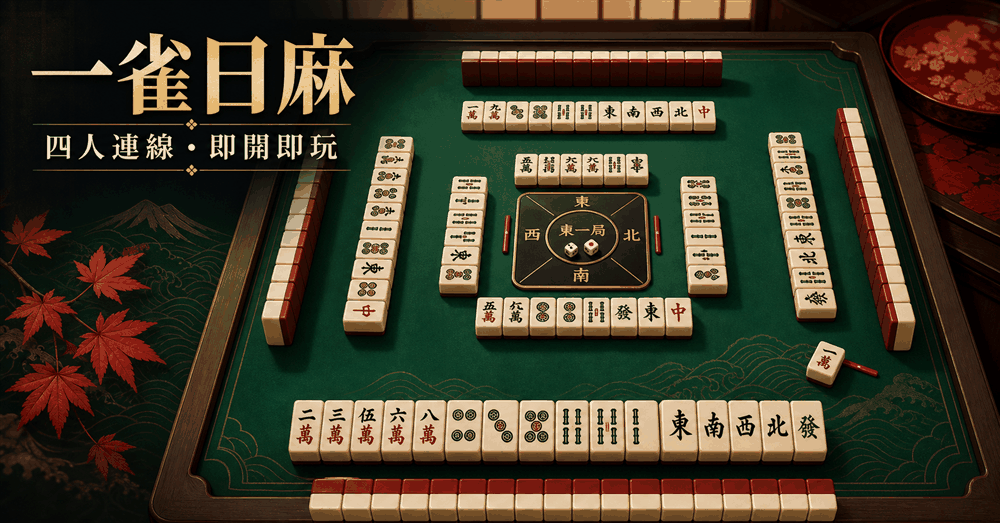
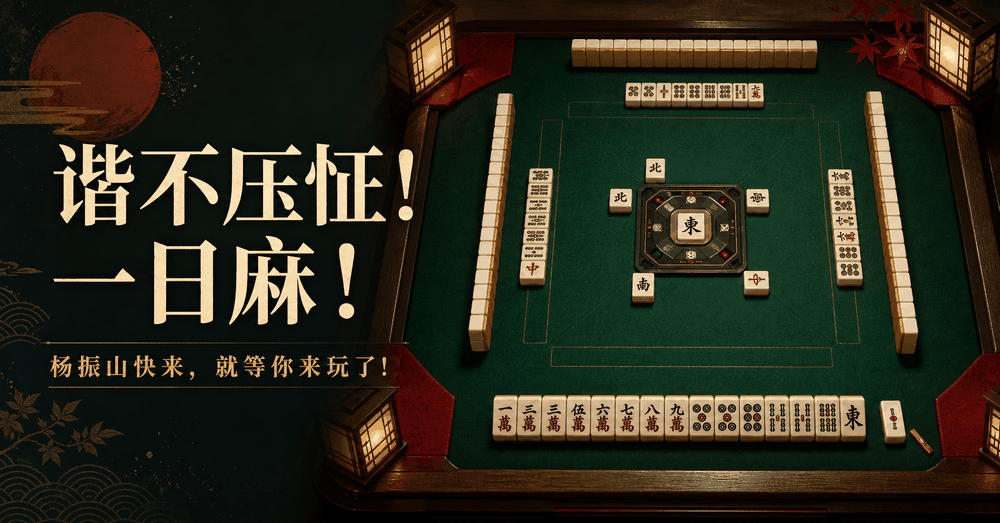
Refresh branding and add table rematch

diff --git a/app/page.tsx b/app/page.tsx
@@ -234,7 +234,7 @@ export default function Home() {
   async function shareRoom() {
     const url = `${window.location.origin}${window.location.pathname}?room=${roomCode}`;
     try {
-      if (navigator.share) await navigator.share({ title: "一雀日麻・四人房", text: `房号 ${roomCode}，点击加入四人日麻`, url });
+      if (navigator.share) await navigator.share({ title: "谐不压怔！一日麻！", text: `杨振山快来，就等你来玩了！房号 ${roomCode}`, url });
       else await navigator.clipboard.writeText(url);
       setCopied(true);
       window.setTimeout(() => setCopied(false), 1800);
@@ -263,8 +263,9 @@ export default function Home() {
         <section className="hero">
           <div className="hero-copy">
             <span className="eyebrow">四人线上日麻</span>
-            <h1>朋友到齐，<br /><em>马上开桌。</em></h1>
-            <p>建立一间私人房，分享链接。四个人用昵称入座，不注册、不安装，直接打东风战。</p>
+            <h1>谐不压怔！<br /><em>一日麻！</em></h1>
+            <p className="invite-subtitle">杨振山快来，就等你来玩了！</p>
+            <p className="hero-description">建立一间私人房，分享链接。四个人用昵称入座，不注册、不安装，直接打东风战。</p>
             <div className="create-card">
               <label htmlFor="host-name">你的昵称</label>
               <div><input id="host-name" value={name} onChange={(event) => setName(event.target.value)} maxLength={16} placeholder="例如：小林" onKeyDown={(event) => { if (event.key === "Enter") void createRoom(); }} /><button onClick={createRoom} disabled={busy}>{busy ? "建房中…" : "建立四人房"}</button></div>
@@ -293,7 +294,8 @@ export default function Home() {
         <header className="topbar"><Brand /><span className="no-login-badge">免登录</span></header>
         <section className="join-panel">
           <span className="eyebrow">朋友邀请你加入</span>
-          <h1>四人日麻房</h1>
+          <h1>谐不压怔！一日麻！</h1>
+          <p className="invite-line">杨振山快来，就等你来玩了！</p>
           <button className="room-code" onClick={shareRoom}><small>房号</small>{room.code}<i>{copied ? "已复制" : "复制链接"}</i></button>
           <SeatList room={room} />
           {room.status === "lobby" ? (
@@ -368,12 +370,12 @@ export default function Home() {
       <footer className="game-notes"><p><span>东风战</span>立直・赤宝牌・食断・多人荣和・荒牌听牌料</p><p>公开链接入场・无需账号・不涉及金钱</p></footer>
 
       {(room.status === "round-end" || room.status === "game-end") && result && (
-        <div className="result-overlay"><section className="result-card"><span className="result-stamp">{result.kind === "draw" ? "流" : "和"}</span><small>东{game.round + 1}局・{result.title}</small><h1>{result.message}</h1>{result.winners.map((winner) => <div className="winner-detail" key={winner.seat}><strong>{room.players[winner.seat].name}　{winner.han}番 {winner.fu}符</strong><span>＋{winner.points.toLocaleString()} 点</span><p>{winner.yaku.join("・")}</p></div>)}<div className="score-board">{[...room.players].sort((a, b) => b.score - a.score).map((player, index) => <span key={player.seat}><i>{index + 1}</i>{player.name}<b>{player.score.toLocaleString()}</b></span>)}</div>{room.status === "round-end" && <button className="primary-button" disabled={viewer.seat !== room.hostSeat || busy} onClick={() => sendAction({ type: "next-round" })}>{viewer.seat === room.hostSeat ? "下一局" : "等待房主继续"}</button>}{room.status === "game-end" && <a className="primary-button" href={window.location.pathname}>建立新房</a>}</section></div>
+        <div className="result-overlay"><section className="result-card"><span className="result-stamp">{result.kind === "draw" ? "流" : "和"}</span><small>东{game.round + 1}局・{result.title}</small><h1>{result.message}</h1>{result.winners.map((winner) => <div className="winner-detail" key={winner.seat}><strong>{room.players[winner.seat].name}　{winner.han}番 {winner.fu}符</strong><span>＋{winner.points.toLocaleString()} 点</span><p>{winner.yaku.join("・")}</p></div>)}<div className="score-board">{[...room.players].sort((a, b) => b.score - a.score).map((player, index) => <span key={player.seat}><i>{index + 1}</i>{player.name}<b>{player.score.toLocaleString()}</b></span>)}</div>{room.status === "round-end" && <button className="primary-button" disabled={viewer.seat !== room.hostSeat || busy} onClick={() => sendAction({ type: "next-round" })}>{viewer.seat === room.hostSeat ? "下一局" : "等待房主继续"}</button>}{room.status === "game-end" && <div className="result-actions"><button className="primary-button" disabled={viewer.seat !== room.hostSeat || busy} onClick={() => sendAction({ type: "rematch" })}>{viewer.seat === room.hostSeat ? "原房再开一场" : "等待房主再开"}</button><a className="quiet-button" href={window.location.pathname}>建立新房</a></div>}</section></div>
       )}
     </main>
   );
 }
 
 function Brand() {
-  return <a className="brand" href="/"><span className="brand-seal">雀</span><span><strong>一雀日麻</strong><small>YIQUE RIICHI</small></span></a>;
+  return <a className="brand" href="/"><span className="brand-seal">雀</span><span><strong>谐不压怔！一日麻！</strong><small>杨振山快来，就等你来玩了！</small></span></a>;
 }

diff --git a/app/globals.css b/app/globals.css
@@ -60,7 +60,10 @@ button { cursor: pointer; }
 }
 .hero h1 { font: 900 clamp(48px, 6vw, 78px)/1.05 var(--font-serif), serif; letter-spacing: -.04em; margin: 17px 0 22px; }
 .hero h1 em { color: var(--red); font-style: normal; }
-.hero-copy > p { max-width: 510px; color: #626861; font-size: 16px; line-height: 1.9; margin: 0 0 28px; }
+.hero-copy > p { max-width: 510px; color: #626861; font-size: 16px; line-height: 1.9; margin: 0; }
+.hero-copy .invite-subtitle { color: var(--red-dark); font: 800 clamp(17px, 2vw, 22px)/1.55 var(--font-serif),serif; letter-spacing: .03em; margin-bottom: 9px; }
+.hero-copy .hero-description { margin-bottom: 28px; }
+.invite-line { color: var(--red-dark); font: 800 14px/1.6 var(--font-serif),serif; margin: -10px 0 18px; }
 .create-card { background: rgba(255,255,255,.62); border: 1px solid var(--line); border-radius: 16px; padding: 16px; box-shadow: 0 15px 35px rgba(64,43,24,.08); }
 .create-card label, .join-form label { display: block; color: var(--muted); font-size: 10px; font-weight: 700; margin: 0 0 8px 3px; }
 .create-card > div, .join-form > div { display: flex; gap: 8px; }
@@ -216,6 +219,8 @@ button:disabled { cursor: not-allowed; opacity: .48; box-shadow: none !important
 .score-board i { width: 20px; height: 20px; display: flex; align-items: center; justify-content: center; border-radius: 50%; background: #eadcc5; font-size: 8px; font-style: normal; }
 .score-board b { color: var(--red-dark); }
 .result-card > .primary-button { width: 100%; margin-top: 6px; }
+.result-actions { display: grid; gap: 8px; margin-top: 6px; }
+.result-actions .primary-button, .result-actions .quiet-button { width: 100%; }
 
 @media (max-width: 850px) {
   .hero { grid-template-columns: 1fr; padding-top: 50px; }
@@ -230,7 +235,7 @@ button:disabled { cursor: not-allowed; opacity: .48; box-shadow: none !important
 
 @media (max-width: 560px) {
   .landing-nav, .topbar { min-height: 66px; padding: 9px 13px; }
-  .brand-seal { width: 37px; height: 37px; font-size: 18px; } .brand strong { font-size: 16px; } .brand small { display: none; }
+  .brand-seal { width: 37px; height: 37px; font-size: 18px; } .brand strong { font-size: 13px; letter-spacing: .04em; } .brand small { display: none; }
   .no-login-badge { font-size: 8px; padding: 6px 8px; }
   .hero { min-height: auto; padding: 42px 16px 36px; gap: 45px; } .hero h1 { font-size: 49px; } .hero-copy > p { font-size: 14px; }
   .create-card > div, .join-form > div { flex-direction: column; } .create-card button, .join-form button { height: 46px; }

diff --git a/app/layout.tsx b/app/layout.tsx
@@ -21,16 +21,16 @@ export async function generateMetadata(): Promise<Metadata> {
   const protocol = requestHeaders.get("x-forwarded-proto") ?? (host.includes("localhost") ? "http" : "https");
   const origin = `${protocol}://${host}`;
   return {
-    title: "一雀日麻｜四人线上东风战",
-    description: "无需登录，建立房间并分享链接，四位朋友直接开始日麻东风战。",
+    title: "谐不压怔！一日麻！",
+    description: "杨振山快来，就等你来玩了！无需登录，四位朋友直接开始日麻东风战。",
     icons: { icon: "/favicon.svg", shortcut: "/favicon.svg" },
     openGraph: {
-      title: "一雀日麻｜四人线上东风战",
-      description: "四人连线・即开即玩",
+      title: "谐不压怔！一日麻！",
+      description: "杨振山快来，就等你来玩了！",
       type: "website",
-      images: [{ url: `${origin}/og.png`, width: 1000, height: 523, alt: "一雀日麻四人牌桌" }],
+      images: [{ url: `${origin}/og.png`, width: 1000, height: 523, alt: "谐不压怔！一日麻！四人牌桌" }],
     },
-    twitter: { card: "summary_large_image", title: "一雀日麻", description: "四人连线・即开即玩", images: [`${origin}/og.png`] },
+    twitter: { card: "summary_large_image", title: "谐不压怔！一日麻！", description: "杨振山快来，就等你来玩了！", images: [`${origin}/og.png`] },
   };
 }
 

diff --git a/lib/riichi.ts b/lib/riichi.ts
@@ -77,6 +77,7 @@ export type ClientAction =
   | { type: "tsumo" }
   | { type: "ankan"; tileType: number }
   | { type: "next-round" }
+  | { type: "rematch" }
   | { type: "tick" };
 
 export class GameError extends Error {
@@ -682,6 +683,14 @@ export function applyAction(state: RoomState, token: string, action: ClientActio
       return state;
     }
     return startRound(state, nextRound, nextDealer, nextHonba, game.riichiSticks);
+  }
+  if (action.type === "rematch") {
+    if (state.status !== "game-end" || game.phase !== "game-end") throw new GameError("东风战尚未结束");
+    if (player.seat !== state.hostSeat) throw new GameError("只有房主可以原房再开一场");
+    state.players.forEach((candidate) => {
+      candidate.score = 25000;
+    });
+    return startRound(state, 0, 0, 0, 0);
   }
   if (game.phase === "claim") {
     const options = game.claimOptions[String(player.seat)] ?? [];
